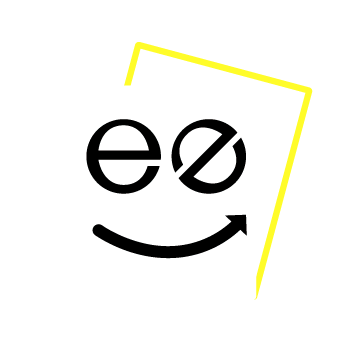
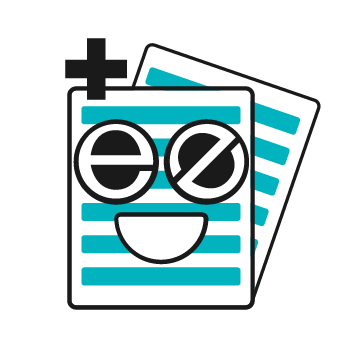
7.5 Assignment v1
Forms, Fonts and iFrames
Added 2 pages, updated logo, added a youtube, added 2 forms.

Changed region(s): [[0.1833, 0.0917, 0.9167, 0.8861]]

diff --git a/aboutus.html b/aboutus.html
@@ -30,7 +30,7 @@
     <a href="index.html" class="w3-bar-item w3-button w3-padding-large w3-white">Home</a>
     <a href="#" class="w3-bar-item w3-button w3-hide-small w3-padding-large w3-hover-white">How it Works</a>
     <a href="#" class="w3-bar-item w3-button w3-hide-small w3-padding-large w3-hover-white">My EZ MedForms</a>
-    <a href="aboutus.html" class="w3-bar-item w3-button w3-hide-small w3-padding-large w3-hover-white">About Us</a>
+    <a href="#" class="w3-bar-item w3-button w3-hide-small w3-padding-large w3-hover-white">Contact Us</a>
     <a href="login.html" class="w3-bar-item w3-button w3-hide-small w3-padding-large w3-hover-white">Login</a>
   </div>
 <!-- Navbar on small screens -->
@@ -38,7 +38,7 @@
     <a href="index.html" class="w3-bar-item w3-button w3-padding-large">Home</a>
     <a href="#" class="w3-bar-item w3-button w3-padding-large">How it works</a>
     <a href="#" class="w3-bar-item w3-button w3-padding-large">My EZ MedForms</a>
-    <a href="aboutus.html" class="w3-bar-item w3-button w3-padding-large">About Us</a>
+    <a href="aboutus.html" class="w3-bar-item w3-button w3-padding-large">Contact Us</a>
 	<a href="login.html" class="w3-bar-item w3-button w3-padding-large">Login</a>
   </div>
 </div>
@@ -47,41 +47,52 @@
 <!-- First Grid -->
 <div class="w3-row-padding w3-padding-64 w3-container light1">
   <div class="w3-content">
-    <div class="w3-twothird">
-      <h1>Why we describe Medical Claim filling as &quot;EZ&quot;</h1>
-      <h5 class="w3-padding-32">Lorem ipsum dolor sit amet, consectetur adipisicing elit. Quo labore, distinctio cumque dolores nemo, omnis. Voluptates ut quaerat debitis. Voluptate ad aspernatur sed consequuntur, ex quas tenetur expedita quod impedit.</h5>
-
-      <p class="w3-text-grey">Lorem ipsum dolor sit amet, consectetur adipiscing elit, sed do eiusmod tempor incididunt ut labore et dolore magna aliqua. Ut enim ad minim veniam, quis nostrud exercitation ullamco laboris nisi ut aliquip ex ea commodo consequat. Excepteur sint
-        occaecat cupidatat non proident, sunt in culpa qui officia deserunt mollit anim id est laborum consectetur adipiscing elit, sed do eiusmod tempor incididunt ut labore et dolore magna aliqua. Ut enim ad minim veniam, quis nostrud exercitation ullamco
-        laboris nisi ut aliquip ex ea commodo consequat.</p>
+    <div class="w3-rest">
+<form action="/action_page.php" class="w3-container w3-card-4 w3-light-grey w3-text-blue w3-margin">
+<h2 class="w3-center">Contact Us</h2>
+ 
+<div class="w3-row w3-section">
+  <div class="w3-col" style="width:50px"><i class="w3-xxlarge fa fa-user"></i></div>
+    <div class="w3-rest">
+      <input class="w3-input w3-border" name="first" type="text" placeholder="First Name">
     </div>
+</div>
 
-    <div class="w3-third w3-center">
-      <i class="fa fa-solid fa-face-smile fa-10x w3-padding-64 w3-text-blue-gray"></i>
-		
+<div class="w3-row w3-section">
+  <div class="w3-col" style="width:50px"><i class="w3-xxlarge fa fa-user"></i></div>
+    <div class="w3-rest">
+      <input class="w3-input w3-border" name="last" type="text" placeholder="Last Name">
+    </div>
+</div>
+
+<div class="w3-row w3-section">
+  <div class="w3-col" style="width:50px"><i class="w3-xxlarge fa fa-envelope-o"></i></div>
+    <div class="w3-rest">
+      <input class="w3-input w3-border" name="email" type="text" placeholder="Email">
+    </div>
+</div>
+
+<div class="w3-row w3-section">
+  <div class="w3-col" style="width:50px"><i class="w3-xxlarge fa fa-phone"></i></div>
+    <div class="w3-rest">
+      <input class="w3-input w3-border" name="phone" type="text" placeholder="Phone">
+    </div>
+</div>
+
+<div class="w3-row w3-section">
+  <div class="w3-col" style="width:50px"><i class="w3-xxlarge fa fa-pencil"></i></div>
+    <div class="w3-rest">
+      <input class="w3-input w3-border" name="message" type="text" placeholder="Message">
+    </div>
+</div>
+
+<button class="w3-button w3-block w3-section w3-blue w3-ripple w3-padding">Send</button>
+
+</form>
     </div>
   </div>
 </div>
 <!-- First Grid END -->
-	
-<!-- Second Grid -->
-<div class="w3-row-padding w3-padding-64 w3-container light2">
-  <div class="w3-content">
-    <div class="w3-third w3-center">
-      <i class="fa fa-coffee w3-padding-64 w3-text-blue-gray w3-margin-right"></i>
-    </div>
-
-    <div class="w3-twothird">
-      <h1>Lorem Ipsum</h1>
-<iframe width="560" height="315" src="https://www.youtube.com/embed/ScMzIvxBSi4" title="YouTube video player" frameborder="0" allow="accelerometer; autoplay; clipboard-write; encrypted-media; gyroscope; picture-in-picture" allowfullscreen></iframe>
-
-      <p class="w3-text-grey">Lorem ipsum dolor sit amet, consectetur adipiscing elit, sed do eiusmod tempor incididunt ut labore et dolore magna aliqua. Ut enim ad minim veniam, quis nostrud exercitation ullamco laboris nisi ut aliquip ex ea commodo consequat. Excepteur sint
-        occaecat cupidatat non proident, sunt in culpa qui officia deserunt mollit anim id est laborum consectetur adipiscing elit, sed do eiusmod tempor incididunt ut labore et dolore magna aliqua. Ut enim ad minim veniam, quis nostrud exercitation ullamco
-        laboris nisi ut aliquip ex ea commodo consequat.</p>
-    </div>
-  </div>
-</div>
-<!-- Second Grid END -->
 
 <!-- Footer -->
 <footer class="w3-container w3-padding-64 w3-center w3-opacity">  

diff --git a/login.html b/login.html
@@ -30,7 +30,7 @@
     <a href="index.html" class="w3-bar-item w3-button w3-padding-large w3-white">Home</a>
     <a href="#" class="w3-bar-item w3-button w3-hide-small w3-padding-large w3-hover-white">How it Works</a>
     <a href="#" class="w3-bar-item w3-button w3-hide-small w3-padding-large w3-hover-white">My EZ MedForms</a>
-    <a href="aboutus.html" class="w3-bar-item w3-button w3-hide-small w3-padding-large w3-hover-white">About Us</a>
+    <a href="aboutus.html" class="w3-bar-item w3-button w3-hide-small w3-padding-large w3-hover-white">Contact Us</a>
     <a href="login.html" class="w3-bar-item w3-button w3-hide-small w3-padding-large w3-hover-white">Login</a>
   </div>
 <!-- Navbar on small screens -->
@@ -38,7 +38,7 @@
     <a href="index.html" class="w3-bar-item w3-button w3-padding-large">Home</a>
     <a href="#" class="w3-bar-item w3-button w3-padding-large">How it works</a>
     <a href="#" class="w3-bar-item w3-button w3-padding-large">My EZ MedForms</a>
-    <a href="aboutus.html" class="w3-bar-item w3-button w3-padding-large">About Us</a>
+    <a href="aboutus.html" class="w3-bar-item w3-button w3-padding-large">Contact Us</a>
 	<a href="login.html" class="w3-bar-item w3-button w3-padding-large">Login</a>
   </div>
 </div>
@@ -47,41 +47,32 @@
 <!-- First Grid -->
 <div class="w3-row-padding w3-padding-64 w3-container light1">
   <div class="w3-content">
-    <div class="w3-twothird">
-      <h1>Why we describe Medical Claim filling as &quot;EZ&quot;</h1>
-      <h5 class="w3-padding-32">Lorem ipsum dolor sit amet, consectetur adipisicing elit. Quo labore, distinctio cumque dolores nemo, omnis. Voluptates ut quaerat debitis. Voluptate ad aspernatur sed consequuntur, ex quas tenetur expedita quod impedit.</h5>
+    <div class="w3-rest">
+      <h1>Login in to your account here:</h1>
+      <form action="/action_page.php" class="w3-container w3-card-4 w3-light-grey w3-text-blue w3-margin">
+<h2 class="w3-center">Login</h2>
 
-      <p class="w3-text-grey">Lorem ipsum dolor sit amet, consectetur adipiscing elit, sed do eiusmod tempor incididunt ut labore et dolore magna aliqua. Ut enim ad minim veniam, quis nostrud exercitation ullamco laboris nisi ut aliquip ex ea commodo consequat. Excepteur sint
-        occaecat cupidatat non proident, sunt in culpa qui officia deserunt mollit anim id est laborum consectetur adipiscing elit, sed do eiusmod tempor incididunt ut labore et dolore magna aliqua. Ut enim ad minim veniam, quis nostrud exercitation ullamco
-        laboris nisi ut aliquip ex ea commodo consequat.</p>
+<div class="w3-row w3-section">
+  <div class="w3-col" style="width:50px"><i class="w3-xxlarge fa fa-envelope-o"></i></div>
+    <div class="w3-rest">
+      <input class="w3-input w3-border" name="email" type="text" placeholder="Email that you used to sign up">
     </div>
+</div>
 
-    <div class="w3-third w3-center">
-      <i class="fa fa-solid fa-face-smile fa-10x w3-padding-64 w3-text-blue-gray"></i>
-		
+<div class="w3-row w3-section">
+  <div class="w3-col" style="width:50px"><i class="w3-xxlarge fa fa-solid fa-lock"></i></div>
+    <div class="w3-rest">
+      <input class="w3-input w3-border" name="phone" type="text" placeholder="Password goes here">
+    </div>
+</div>
+
+<button class="w3-button w3-block w3-section w3-blue w3-ripple w3-padding">Send</button>
+
+</form>
     </div>
   </div>
 </div>
 <!-- First Grid END -->
-	
-<!-- Second Grid -->
-<div class="w3-row-padding w3-padding-64 w3-container light2">
-  <div class="w3-content">
-    <div class="w3-third w3-center">
-      <i class="fa fa-coffee w3-padding-64 w3-text-blue-gray w3-margin-right"></i>
-    </div>
-
-    <div class="w3-twothird">
-      <h1>Lorem Ipsum</h1>
-<iframe width="560" height="315" src="https://www.youtube.com/embed/ScMzIvxBSi4" title="YouTube video player" frameborder="0" allow="accelerometer; autoplay; clipboard-write; encrypted-media; gyroscope; picture-in-picture" allowfullscreen></iframe>
-
-      <p class="w3-text-grey">Lorem ipsum dolor sit amet, consectetur adipiscing elit, sed do eiusmod tempor incididunt ut labore et dolore magna aliqua. Ut enim ad minim veniam, quis nostrud exercitation ullamco laboris nisi ut aliquip ex ea commodo consequat. Excepteur sint
-        occaecat cupidatat non proident, sunt in culpa qui officia deserunt mollit anim id est laborum consectetur adipiscing elit, sed do eiusmod tempor incididunt ut labore et dolore magna aliqua. Ut enim ad minim veniam, quis nostrud exercitation ullamco
-        laboris nisi ut aliquip ex ea commodo consequat.</p>
-    </div>
-  </div>
-</div>
-<!-- Second Grid END -->
 
 <!-- Footer -->
 <footer class="w3-container w3-padding-64 w3-center w3-opacity">  

diff --git a/index - Copy.html b/index - Copy.html
@@ -13,7 +13,6 @@
 
 <!-- Header -->
 <header class="w3-container w3-center">
-<script src="https://kit.fontawesome.com/b3a9251f4c.js" crossorigin="anonymous"></script>
 	<div class="headback">
 <h1 class="w3-margin w3-jumbo"><img class="logo-main" src="images/EZforms.png"/><br>
 	EZ MedForms  </h1>
@@ -27,19 +26,19 @@
 <div class="w3-bottombar">
   <div class="w3-bar w3-card w3-left-align w3-large">
     <a class="w3-bar-item w3-button w3-hide-medium w3-hide-large w3-right w3-padding-large w3-hover-white w3-large w3-light-blue" href="javascript:void(0);" onclick="myFunction()" title="Toggle Navigation Menu"><i class="fa fa-bars"></i></a>
-    <a href="index.html" class="w3-bar-item w3-button w3-padding-large w3-white">Home</a>
+    <a href="#" class="w3-bar-item w3-button w3-padding-large w3-white">Home</a>
     <a href="#" class="w3-bar-item w3-button w3-hide-small w3-padding-large w3-hover-white">How it Works</a>
     <a href="#" class="w3-bar-item w3-button w3-hide-small w3-padding-large w3-hover-white">My EZ MedForms</a>
-    <a href="aboutus.html" class="w3-bar-item w3-button w3-hide-small w3-padding-large w3-hover-white">About Us</a>
-    <a href="login.html" class="w3-bar-item w3-button w3-hide-small w3-padding-large w3-hover-white">Login</a>
+    <a href="#" class="w3-bar-item w3-button w3-hide-small w3-padding-large w3-hover-white">About Us</a>
+    <a href="#" class="w3-bar-item w3-button w3-hide-small w3-padding-large w3-hover-white">Login</a>
   </div>
 <!-- Navbar on small screens -->
   <div id="navDemo" class="w3-bar-block w3-white w3-hide w3-hide-large w3-hide-medium w3-large">
-    <a href="index.html" class="w3-bar-item w3-button w3-padding-large">Home</a>
-    <a href="#" class="w3-bar-item w3-button w3-padding-large">How it works</a>
-    <a href="#" class="w3-bar-item w3-button w3-padding-large">My EZ MedForms</a>
-    <a href="aboutus.html" class="w3-bar-item w3-button w3-padding-large">About Us</a>
-	<a href="login.html" class="w3-bar-item w3-button w3-padding-large">Login</a>
+    <a href="#" class="w3-bar-item w3-button w3-padding-large">How it Works</a>
+    <a href="#" class="w3-bar-item w3-button w3-padding-large">Form Filler</a>
+    <a href="#" class="w3-bar-item w3-button w3-padding-large">Support</a>
+    <a href="#" class="w3-bar-item w3-button w3-padding-large">Login</a>
+	<a href="#" class="w3-bar-item w3-button w3-padding-large">About Us</a>
   </div>
 </div>
 <!-- Navbar END-->
@@ -57,7 +56,7 @@
     </div>
 
     <div class="w3-third w3-center">
-      <i class="fa fa-solid fa-face-smile fa-10x w3-padding-64 w3-text-blue-gray"></i>
+      <i class="fa fa-anchor w3-padding-64 w3-text-red"></i>
 		
     </div>
   </div>
@@ -68,12 +67,12 @@
 <div class="w3-row-padding w3-padding-64 w3-container light2">
   <div class="w3-content">
     <div class="w3-third w3-center">
-      <i class="fa fa-coffee w3-padding-64 w3-text-blue-gray w3-margin-right"></i>
+      <i class="fa fa-coffee w3-padding-64 w3-text-red w3-margin-right"></i>
     </div>
 
     <div class="w3-twothird">
       <h1>Lorem Ipsum</h1>
-<iframe width="560" height="315" src="https://www.youtube.com/embed/ScMzIvxBSi4" title="YouTube video player" frameborder="0" allow="accelerometer; autoplay; clipboard-write; encrypted-media; gyroscope; picture-in-picture" allowfullscreen></iframe>
+      <h5 class="w3-padding-32">Lorem ipsum dolor sit amet, consectetur adipiscing elit, sed do eiusmod tempor incididunt ut labore et dolore magna aliqua. Ut enim ad minim veniam, quis nostrud exercitation ullamco laboris nisi ut aliquip ex ea commodo consequat.</h5>
 
       <p class="w3-text-grey">Lorem ipsum dolor sit amet, consectetur adipiscing elit, sed do eiusmod tempor incididunt ut labore et dolore magna aliqua. Ut enim ad minim veniam, quis nostrud exercitation ullamco laboris nisi ut aliquip ex ea commodo consequat. Excepteur sint
         occaecat cupidatat non proident, sunt in culpa qui officia deserunt mollit anim id est laborum consectetur adipiscing elit, sed do eiusmod tempor incididunt ut labore et dolore magna aliqua. Ut enim ad minim veniam, quis nostrud exercitation ullamco
